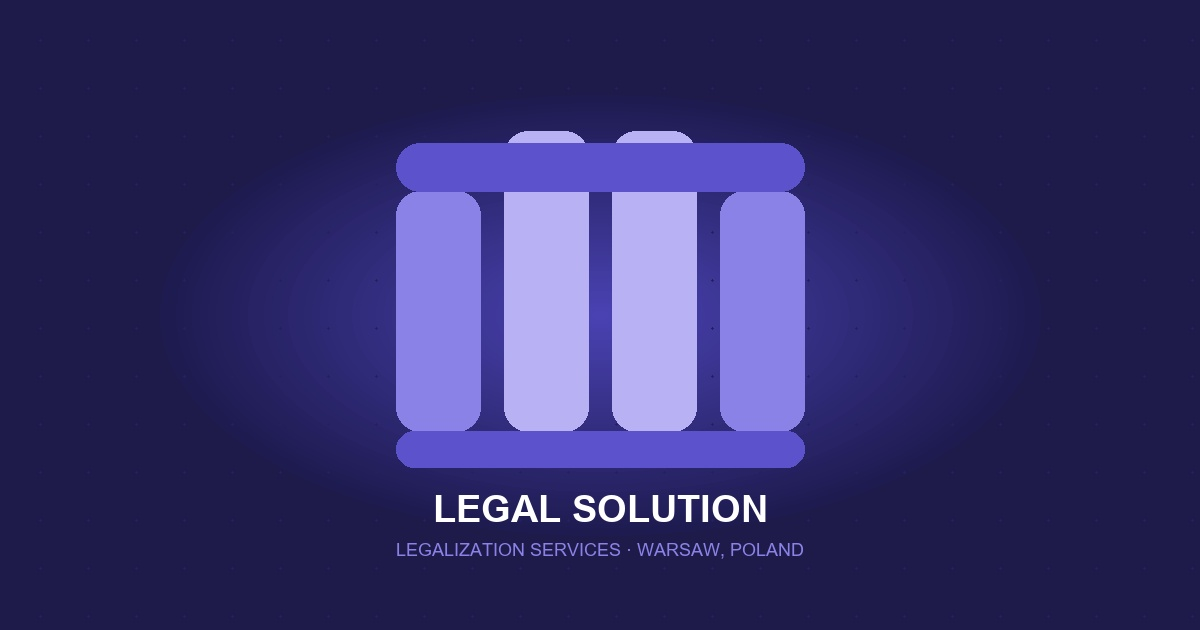
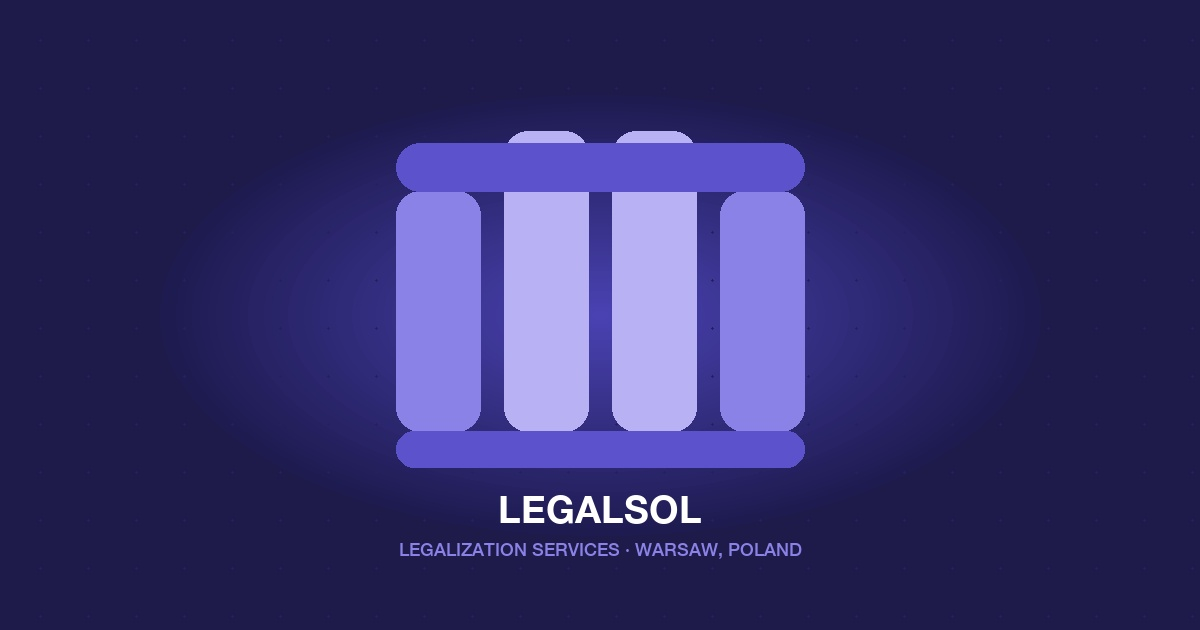
fix: OG image + polish.html meta — rebrand to LegalSol
- og-image.jpg re-rendered with "LEGALSOL" (was "LEGAL SOLUTION")
- polish.html <title>, description, og:title, og:description rewritten
  in English (was Russian) — link previews in Telegram/Slack/Twitter now
  read for global audience instead of cyrillic-only
- og:locale en_US + alternates ru_RU, pl_PL for SEO hreflang signal
- og-image.jpg cache-buster bumped to ?v=3 across all 3 pages
  (forces Telegram/FB/Twitter to re-fetch instead of using cached old image)

Why polish.html meta got Englishified:
- Polish page targets non-Polish speakers learning Polish
- TG/Slack preview should be readable to that audience (mostly EN, RU, HI, AR readers)
- Russian-only meta was excluding 60%+ of the ICP
- Page itself still supports all 8 languages (T-dict) — only meta changed

Changed region(s): [[0.3392, 0.7841, 0.6783, 0.9048]]

diff --git a/polish.html b/polish.html
@@ -1,10 +1,10 @@
 <!doctype html>
-<html lang="ru">
+<html lang="en">
 <head>
 <meta charset="utf-8"/>
 <meta name="viewport" content="width=device-width,initial-scale=1.0"/>
-<title>Польский для иностранцев — LegalSol Polish School</title>
-<meta name="description" content="Польский язык для иностранцев · все уровни A1–C2 · подготовка к экзаменам B1 (Karta Pobytu), B2 (гражданство), C1 (университет) · 1500+ студентов · 95% сдача с первого раза"/>
+<title>Polish for Foreigners · LegalSol Polish School · Warsaw</title>
+<meta name="description" content="Polish language courses for foreigners · all levels A1–C2 · exam prep B1 (Karta Pobytu), B2 (citizenship), C1 (university) · 1500+ students · 95% pass first try"/>
 <link rel="icon" type="image/svg+xml" href="/favicon.svg"/>
 <link rel="canonical" href="https://www.legalsol.pl/polish"/>
 <link rel="alternate" hreflang="en" href="https://www.legalsol.pl/polish?lang=en"/>
@@ -16,15 +16,18 @@
 <link rel="stylesheet" href="https://fonts.googleapis.com/css2?family=Inter:wght@400;500;600;700;800&family=Playfair+Display:wght@700;900&display=swap"/>
 
 <meta property="og:type" content="website"/>
-<meta property="og:title" content="Польский для иностранцев — Polish School LegalSol"/>
-<meta property="og:description" content="Все уровни A1-C2 · подготовка к B1/B2/C1 экзаменам · 1500+ студентов"/>
+<meta property="og:title" content="Polish for Foreigners · LegalSol Polish School"/>
+<meta property="og:description" content="All levels A1–C2 · B1/B2/C1 exam prep · 1500+ students · 95% pass first try · Warsaw"/>
 <meta property="og:url" content="https://www.legalsol.pl/polish"/>
-<meta property="og:image" content="https://www.legalsol.pl/og-image.jpg"/>
+<meta property="og:image" content="https://www.legalsol.pl/og-image.jpg?v=3"/>
+<meta property="og:locale" content="en_US"/>
+<meta property="og:locale:alternate" content="ru_RU"/>
+<meta property="og:locale:alternate" content="pl_PL"/>
 
 <meta name="twitter:card" content="summary_large_image"/>
-<meta name="twitter:title" content="Польский для иностранцев — LegalSol"/>
-<meta name="twitter:description" content="Подготовка к экзаменам · все уровни · 95% сдача с первого раза"/>
-<meta name="twitter:image" content="https://www.legalsol.pl/og-image.jpg"/>
+<meta name="twitter:title" content="Polish for Foreigners · LegalSol"/>
+<meta name="twitter:description" content="Exam prep · all levels A1–C2 · 95% pass first try · Warsaw"/>
+<meta name="twitter:image" content="https://www.legalsol.pl/og-image.jpg?v=3"/>
 
 <script type="application/ld+json">
 {"@context":"https://schema.org","@type":"EducationalOrganization","name":"LegalSol Polish School","url":"https://www.legalsol.pl/polish","logo":"https://www.legalsol.pl/favicon-512.png","description":"Polish language courses for foreigners — all levels A1 to C2, exam preparation for Karta Pobytu (B1), citizenship (B2), university admission (C1).","areaServed":"PL","hasOfferCatalog":{"@type":"OfferCatalog","name":"Polish Language Courses","itemListElement":[{"@type":"Offer","itemOffered":{"@type":"Course","name":"A1 - Beginner","description":"Polish for absolute beginners"}},{"@type":"Offer","itemOffered":{"@type":"Course","name":"B1 - Karta Pobytu Exam Prep","description":"Pass the official B1 state exam required for permanent residence"}},{"@type":"Offer","itemOffered":{"@type":"Course","name":"B2 - Citizenship Exam Prep","description":"B2 certification required for Polish citizenship application"}},{"@type":"Offer","itemOffered":{"@type":"Course","name":"C1 - University Admission","description":"Academic Polish for Polish university admission"}}]}}

diff --git a/business.html b/business.html
@@ -25,7 +25,7 @@ j=d.createElement(s),dl=l!='dataLayer'?'&l='+l:'';j.async=true;j.src=
 <meta property="og:type" content="website"/>
 <meta property="og:title" content="LegalSol for Business — Bulk Immigration in Poland"/>
 <meta property="og:description" content="Volume discounts up to 35%, dedicated manager, corporate dashboard."/>
-<meta property="og:image" content="/og-image.jpg"/>
+<meta property="og:image" content="/og-image.jpg?v=3"/>
 <meta property="og:url" content="https://www.legalsol.pl/business"/>
 
 <style>
@@ -1406,7 +1406,7 @@ j=d.createElement(s),dl=l!='dataLayer'?'&l='+l:'';j.async=true;j.src=
 <meta name="twitter:card" content="summary_large_image"/>
 <meta name="twitter:title" content="LegalSol for Business — Bulk Immigration in Poland"/>
 <meta name="twitter:description" content="Volume discounts up to 35% · dedicated manager · corporate dashboard. We legalize foreign workforce for Polish businesses."/>
-<meta name="twitter:image" content="https://www.legalsol.pl/og-image.jpg"/>
+<meta name="twitter:image" content="https://www.legalsol.pl/og-image.jpg?v=3"/>
 <meta name="twitter:url" content="https://www.legalsol.pl/business"/>
 
 <!-- JSON-LD: Service schema for B2B -->

diff --git a/index.html b/index.html
@@ -72,7 +72,7 @@ function loadClarity(){
 
 <meta property="og:description" content="Your legal partner in Poland. Residence permit, PESEL, Blue Card, company registration. 6 years · 3000+ cases · 98% approval rate."/>
 
-<meta property="og:image" content="https://www.legalsol.pl/og-image.jpg?v=2"/>
+<meta property="og:image" content="https://www.legalsol.pl/og-image.jpg?v=3"/>
 <meta property="og:image:width" content="1200"/>
 <meta property="og:image:height" content="630"/>
 <meta property="og:image:type" content="image/jpeg"/>
@@ -93,7 +93,7 @@ function loadClarity(){
 
 <meta name="twitter:description" content="Your legal partner in Poland. Residence permit, PESEL, company registration. 98% approval rate."/>
 
-<meta name="twitter:image" content="https://www.legalsol.pl/og-image.jpg?v=2"/>
+<meta name="twitter:image" content="https://www.legalsol.pl/og-image.jpg?v=3"/>
 <meta name="twitter:image:alt" content="LegalSol — Immigration law firm Warsaw"/>
 
 <!-- Sitemap -->